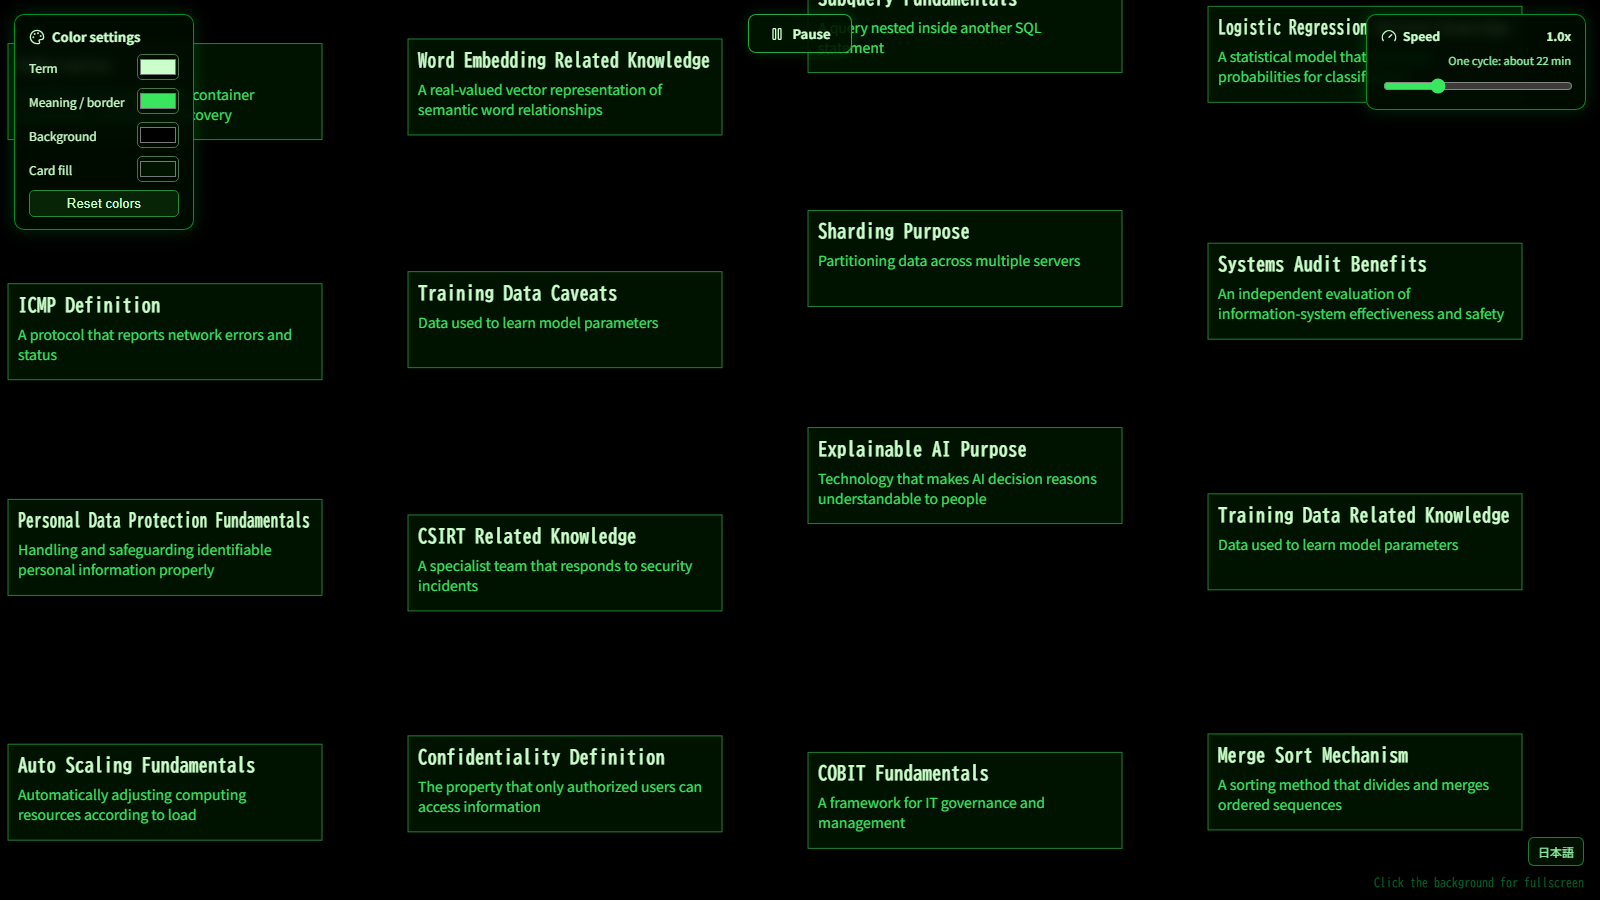
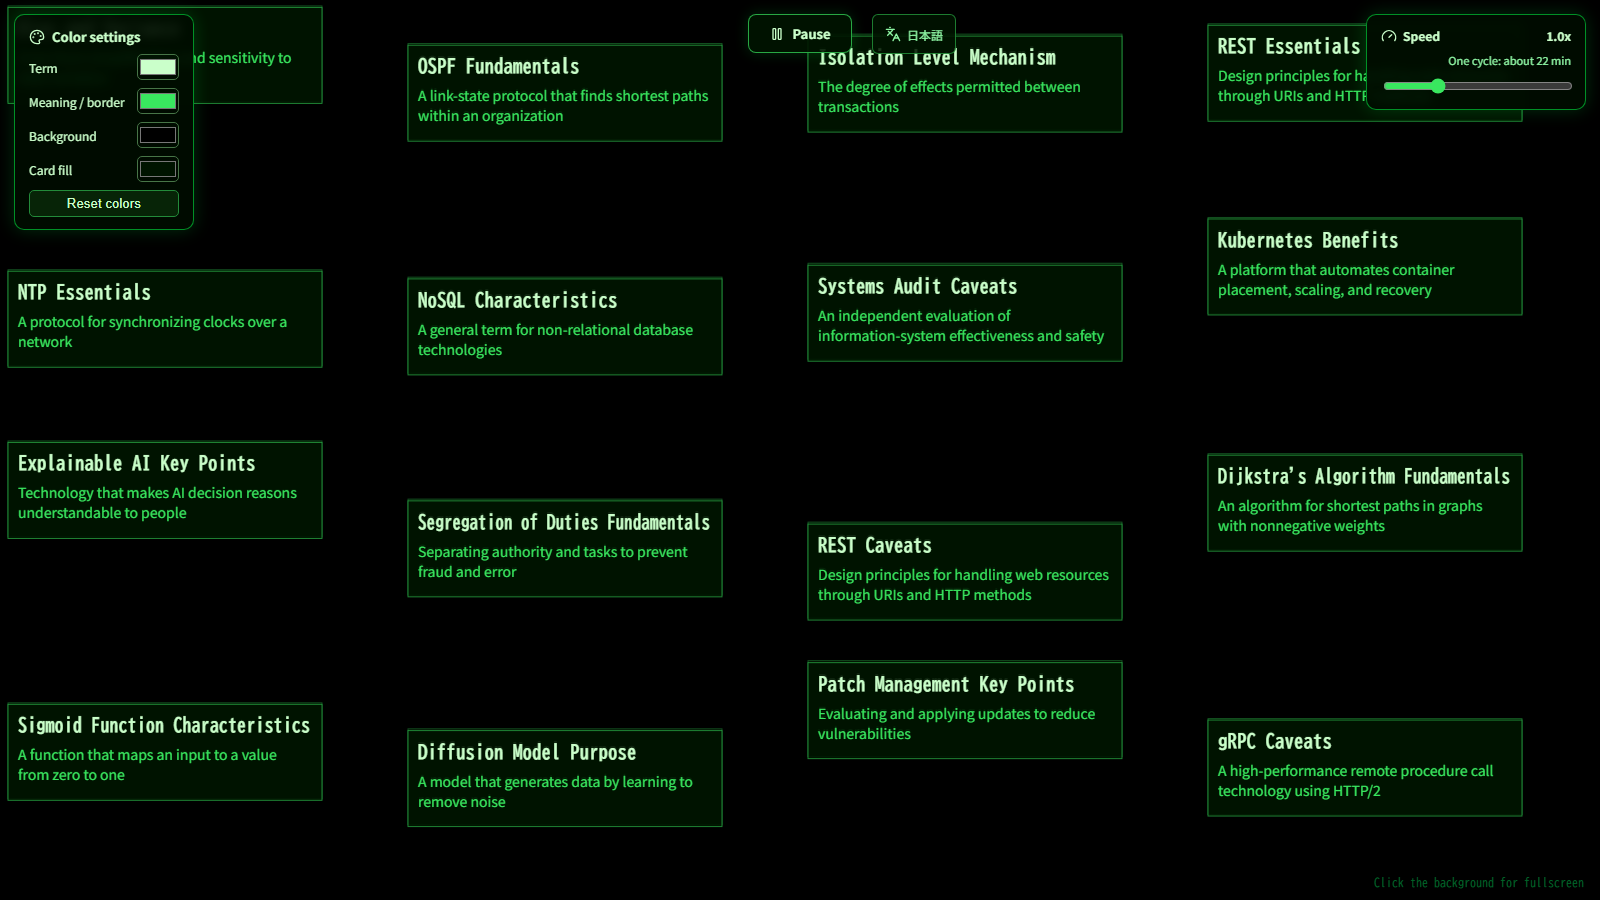
Add prominent language switcher

diff --git a/index_en.html b/index_en.html
@@ -141,10 +141,14 @@
       }
       .language-link {
         position: fixed;
-        right: 16px;
-        bottom: 34px;
+        top: 14px;
+        left: calc(50% + 72px);
         z-index: 10;
-        padding: 5px 9px;
+        display: inline-flex;
+        align-items: center;
+        gap: 6px;
+        min-height: 20px;
+        padding: 9px 12px;
         color: #8df5a3;
         background: rgba(0, 20, 0, 0.86);
         border: 1px solid rgba(57, 231, 95, 0.5);
@@ -155,6 +159,13 @@
       .language-link:hover {
         color: #e8ffe8;
         border-color: #39e75f;
+      }
+      @media (max-width: 900px) {
+        .language-link {
+          top: 64px;
+          left: 50%;
+          transform: translateX(-50%);
+        }
       }
     </style>
   </head>
@@ -175,7 +186,7 @@
       <input id="speedControl" type="range" min="0.25" max="3" step="0.25" value="1" />
     </div>
     <div class="hint">Click the background for fullscreen</div>
-    <a class="language-link" id="languageLink" href="./index.html" lang="ja">日本語</a>
+    <a class="language-link" id="languageLink" href="./index.html" lang="ja"><svg class="lucide" viewBox="0 0 24 24" aria-hidden="true"><path d="m5 8 6 6"/><path d="m4 14 6-6 2-3"/><path d="M2 5h12"/><path d="M7 2h1"/><path d="m22 22-5-10-5 10"/><path d="M14 18h6"/></svg>日本語</a>
     <script src="./knowledge_en.js"></script>
     <script>
       const canvas = document.getElementById("c");

diff --git a/index.html b/index.html
@@ -141,10 +141,14 @@
       }
       .language-link {
         position: fixed;
-        right: 16px;
-        bottom: 34px;
+        top: 14px;
+        left: calc(50% + 72px);
         z-index: 10;
-        padding: 5px 9px;
+        display: inline-flex;
+        align-items: center;
+        gap: 6px;
+        min-height: 20px;
+        padding: 9px 12px;
         color: #8df5a3;
         background: rgba(0, 20, 0, 0.86);
         border: 1px solid rgba(57, 231, 95, 0.5);
@@ -155,6 +159,13 @@
       .language-link:hover {
         color: #e8ffe8;
         border-color: #39e75f;
+      }
+      @media (max-width: 900px) {
+        .language-link {
+          top: 64px;
+          left: 50%;
+          transform: translateX(-50%);
+        }
       }
     </style>
   </head>
@@ -175,7 +186,7 @@
       <input id="speedControl" type="range" min="0.25" max="3" step="0.25" value="1" />
     </div>
     <div class="hint">クリックで全画面</div>
-    <a class="language-link" id="languageLink" href="./index_en.html" lang="en">English</a>
+    <a class="language-link" id="languageLink" href="./index_en.html" lang="en"><svg class="lucide" viewBox="0 0 24 24" aria-hidden="true"><path d="m5 8 6 6"/><path d="m4 14 6-6 2-3"/><path d="M2 5h12"/><path d="M7 2h1"/><path d="m22 22-5-10-5 10"/><path d="M14 18h6"/></svg>English</a>
     <script src="./knowledge.js"></script>
     <script>
       const canvas = document.getElementById("c");
